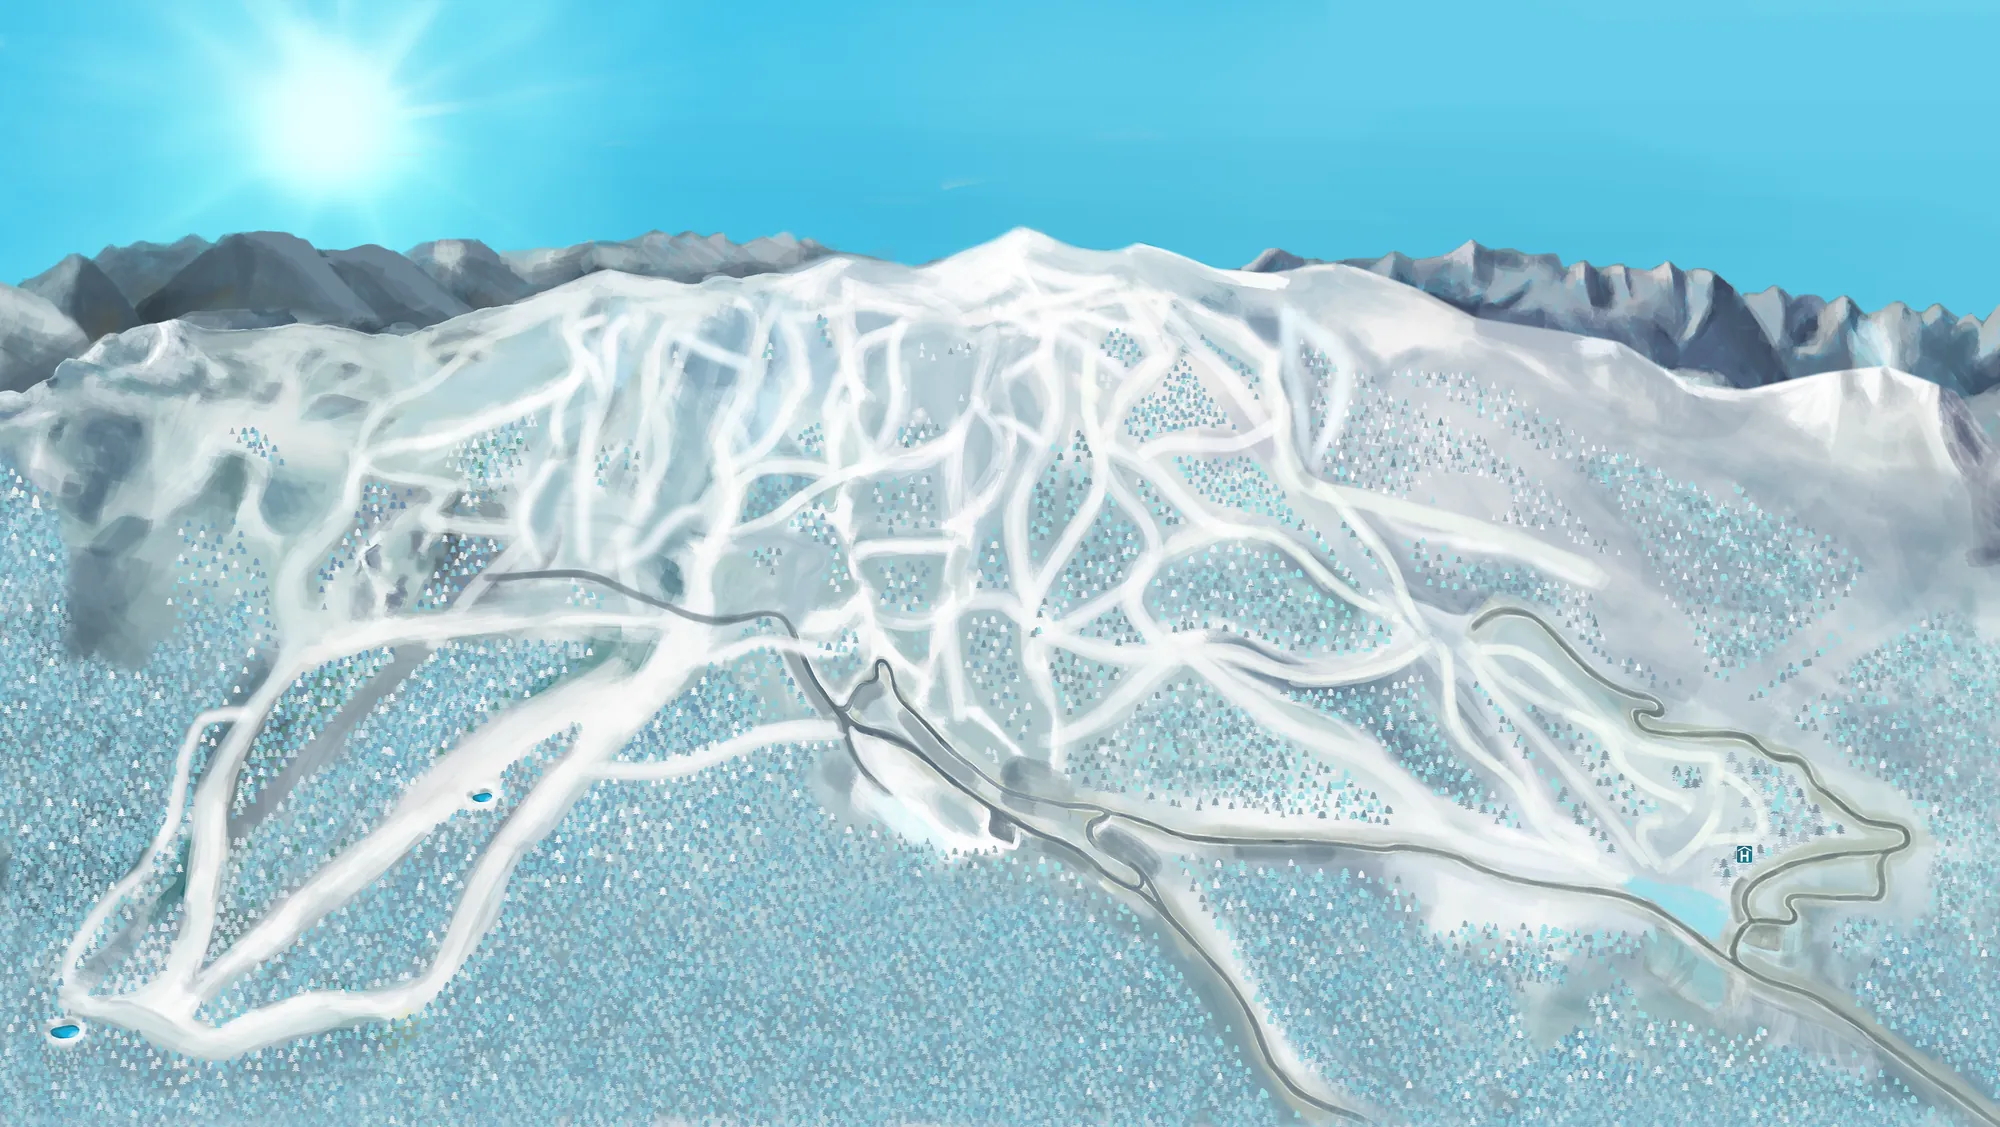
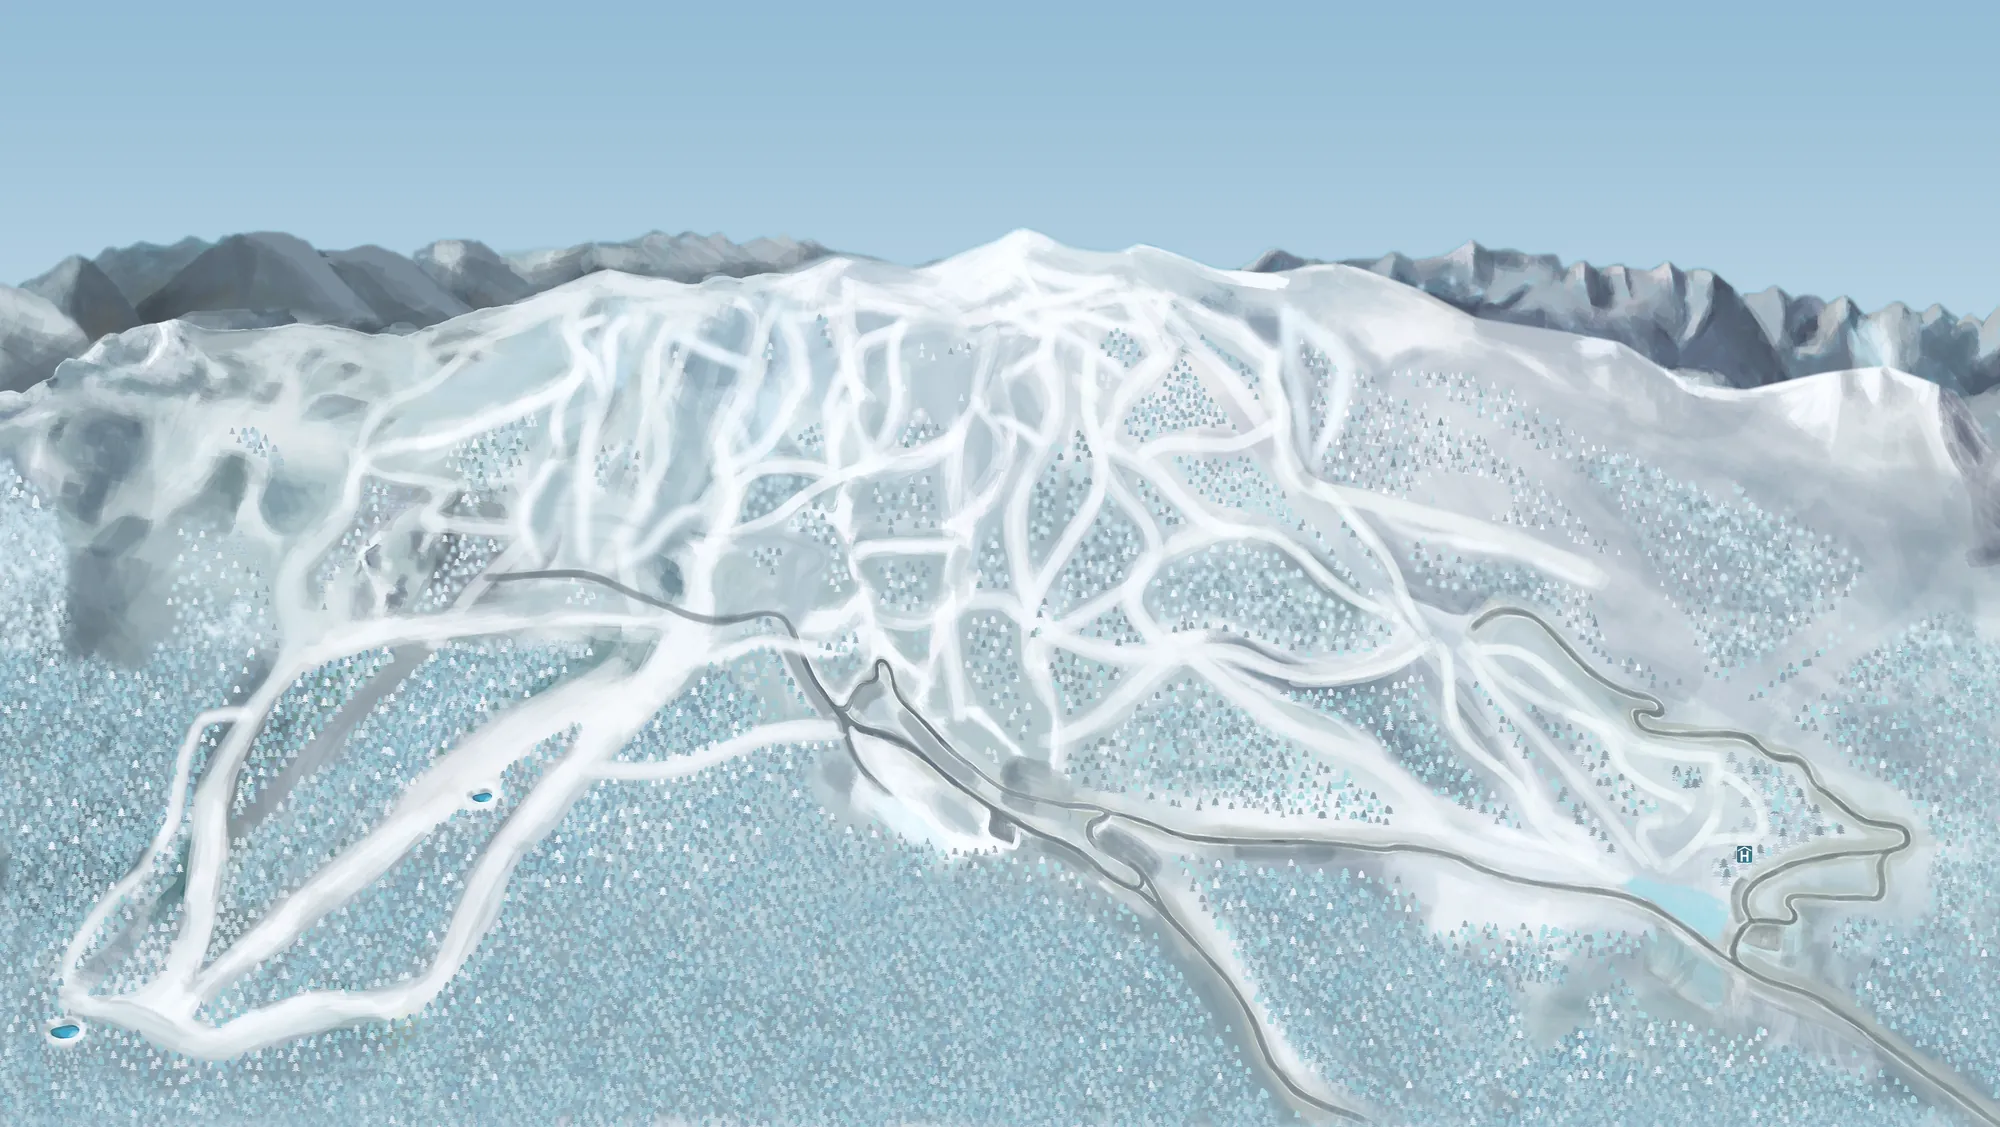
Mapa: plave/crvene/crne staze, prigušena dnevna podloga, oštrija slika bez bljeska
Claude-Session: https://claude.ai/code/session_01CTn5V8kcm2pYuWsP7PZiXx

diff --git a/jahorina-mapa/mapa.js b/jahorina-mapa/mapa.js
@@ -15,15 +15,16 @@
   var T = EN ? {
     kicker: 'Piste map', h1: 'Ski runs of', h2: 'Jahorina',
     lead: '25 runs, link runs and 14 lifts of the Jahorina ski resort on one map. Tap a run or a lift for details, switch on night view to see the floodlit runs.',
-    laka: 'Easy', srednja: 'Intermediate', teska: 'Difficult', zicare: 'Lifts', usluge: 'Services', noc: 'Night skiing',
+    laka: 'Blue', srednja: 'Red', teska: 'Black', zicare: 'Lifts', usluge: 'Services', noc: 'Night skiing',
     run: 'Run', lift: 'Lift', zoomIn: 'Zoom in', zoomOut: 'Zoom out', reset: 'Whole map', full: 'Full screen', fullOff: 'Close full screen',
     close: 'Close', hintWheel: 'Hold Ctrl and scroll to zoom', hintTouch: 'Swipe sideways to move · pinch to zoom',
     help: 'Drag to move · Ctrl + scroll to zoom · Click a run for details', helpTouch: 'Swipe sideways · pinch to zoom · full screen for more room',
-    lit: 'Floodlit for night skiing', fis: 'FIS homologated', upper: 'Upper part difficult, lower part intermediate',
+    lit: 'Floodlit for night skiing', fis: 'FIS homologated', upper: 'Upper part black, lower part red',
     gore: 'Lift to the top', dole: 'At the bottom', od: 'Branches off run', u: 'Joins run', fromTop: 'Runs from the top',
     ride: 'ride', listLifts: 'Lifts', listRuns: 'Runs', listSum: 'Lifts and runs list', nLifts: 'lifts', nRuns: 'runs', mapLabel: 'Interactive piste map of Jahorina. Use the lists below the map to pick a run or a lift.',
     tip: { gondola: 'Gondola', sestosjed: 'Six-seater chairlift', dvosjed: 'Double chairlift', tanjir: 'Platter lift', sidro: 'T-bar lift' },
-    lvl: { laka: 'Easy run', srednja: 'Intermediate run', teska: 'Difficult run' },
+    lvl: { laka: 'Blue run', srednja: 'Red run', teska: 'Black run' },
+    grp: { laka: 'Blue runs', srednja: 'Red runs', teska: 'Black runs' },
     poi: { skikasa: 'Ski pass sales', karte24: 'Ski pass sales 24/7', parking: 'Parking', restoran: 'Restaurant', bar: 'Olimp bar',
       hotel: 'Hotel', smjestaj: 'Resort accommodation', skola: 'Ski school booking', poligon: 'Ski practice area', snowboard: 'Snowboard park',
       sankaliste: 'Sledding area', gondola: 'Poljice gondola', rent: 'Ski rental', wc: 'Toilets', gss: 'Mountain rescue',
@@ -37,15 +38,16 @@
   } : {
     kicker: 'Ski mapa', h1: 'Mapa staza', h2: 'Jahorine',
     lead: '25 staza, vezne staze i 14 žičara ski centra Jahorina na jednoj mapi. Dodirni stazu ili žičaru za detalje, a noćni prikaz pokazuje osvijetljene staze.',
-    laka: 'Lake', srednja: 'Srednje', teska: 'Teške', zicare: 'Žičare', usluge: 'Usluge', noc: 'Noćno skijanje',
+    laka: 'Plave', srednja: 'Crvene', teska: 'Crne', zicare: 'Žičare', usluge: 'Usluge', noc: 'Noćno skijanje',
     run: 'Staza', lift: 'Žičara', zoomIn: 'Uvećaj', zoomOut: 'Umanji', reset: 'Cijela mapa', full: 'Cijeli ekran', fullOff: 'Zatvori cijeli ekran',
     close: 'Zatvori', hintWheel: 'Drži Ctrl i skroluj za zum', hintTouch: 'Prevuci lijevo-desno · dva prsta za zum',
     help: 'Prevuci za pomjeranje · Ctrl + točkić za zum · klik na stazu za detalje', helpTouch: 'Prevuci lijevo-desno · dva prsta za zum · cijeli ekran za više prostora',
-    lit: 'Osvijetljena za noćno skijanje', fis: 'FIS homologovana', upper: 'Gornji dio težak, donji srednje težak',
+    lit: 'Osvijetljena za noćno skijanje', fis: 'FIS homologovana', upper: 'Gornji dio crna, donji dio crvena staza',
     gore: 'Žičara do vrha', dole: 'Na dnu', od: 'Odvaja se od staze', u: 'Spaja se sa stazom', fromTop: 'Staze sa vrha',
     ride: 'vožnje', listLifts: 'Žičare', listRuns: 'Staze', listSum: 'Popis žičara i staza', nLifts: 'žičara', nRuns: 'staza', mapLabel: 'Interaktivna mapa staza Jahorine. Stazu ili žičaru možeš izabrati i iz popisa ispod mape.',
     tip: { gondola: 'Gondola', sestosjed: 'Šestosjed', dvosjed: 'Dvosjed', tanjir: 'Ski lift tanjir', sidro: 'Ski lift sidro' },
-    lvl: { laka: 'Laka staza', srednja: 'Srednje teška staza', teska: 'Teška staza' },
+    lvl: { laka: 'Plava staza', srednja: 'Crvena staza', teska: 'Crna staza' },
+    grp: { laka: 'Plave staze', srednja: 'Crvene staze', teska: 'Crne staze' },
     poi: { skikasa: 'Prodaja ski karata', karte24: 'Prodaja ski karata 0–24', parking: 'Parking', restoran: 'Restoran', bar: 'Olimp bar',
       hotel: 'Hotel', smjestaj: 'Smještaj ski centra', skola: 'Booking ski škole', poligon: 'Ski poligon', snowboard: 'Snowboard poligon',
       sankaliste: 'Sankalište', gondola: 'Gondola Poljice', rent: 'Ski renta', wc: 'Toalet', gss: 'Gorska služba spasavanja Jahorina',
@@ -57,7 +59,7 @@
     here: 'Ovdje', snow: 'Osnježavanje', fisOn: 'FIS',
     peak: 'Ogorjelica', and: ', ', km: 'm'
   };
-  var NAZ_TEZ = { laka: EN ? 'easy' : 'laka', srednja: EN ? 'intermediate' : 'srednja', teska: EN ? 'difficult' : 'teška' };
+  var NAZ_TEZ = { laka: EN ? 'blue' : 'plava', srednja: EN ? 'red' : 'crvena', teska: EN ? 'black' : 'crna' };
 
   /* ---------- fontovi (jednom za sve sekcije) ---------- */
   var hasFonts = [].some.call(document.querySelectorAll('link[rel=stylesheet]'), function (l) {
@@ -395,8 +397,15 @@
     var upgraded = big;
     function upgrade() {
       if (upgraded) return; upgraded = true;
-      var hi = new Image(); hi.onload = function () { imgD.src = hi.src; if (nightLoaded) imgN.src = BASE + 'slike/mapa-noc-3543.webp'; };
-      hi.src = BASE + 'slike/mapa-dan-3543.webp'; big = true;
+      // oštrija slika ulazi tek kad je dekodirana: novi <img> preko starog, pa se stari ukloni (bez tamnog bljeska)
+      function swap(old, url, cb) {
+        var n = old.cloneNode(false); n.src = url;
+        var done = function () { old.parentNode.insertBefore(n, old.nextSibling); old.parentNode.removeChild(old); cb(n); };
+        (n.decode ? n.decode() : new Promise(function (r) { n.onload = r; })).then(done, function () {});
+      }
+      swap(imgD, BASE + 'slike/mapa-dan-3543.webp', function (n) { imgD = n; });
+      if (nightLoaded) swap(imgN, BASE + 'slike/mapa-noc-3543.webp', function (n) { imgN = n; });
+      big = true;
     }
 
     /* --- SVG --- */
@@ -494,7 +503,7 @@
     }).join('');
     $('.jm-pop summary b').textContent = D.zicare.length + ' ' + T.nLifts + ' · ' + D.staze.length + ' ' + T.nRuns;
     $('.jm-runs').innerHTML = ['laka', 'srednja', 'teska'].map(function (k) {
-      return '<div class="jm-rg"><span>' + T.lvl[k] + '</span><div class="jm-rcs">' + runs.filter(function (r) { return r.tez === k; }).map(function (r) {
+      return '<div class="jm-rg"><span>' + T.grp[k] + '</span><div class="jm-rcs">' + runs.filter(function (r) { return r.tez === k; }).map(function (r) {
         return '<button type="button" class="jm-rc t-' + k + '" data-run="' + r.id + '" aria-label="' + esc(T.run + ' ' + r.id) + '">' + esc(r.id) + '</button>';
       }).join('') + '</div></div>';
     }).join('');

diff --git a/jahorina-mapa/alati/napravi-podatke.py b/jahorina-mapa/alati/napravi-podatke.py
@@ -62,6 +62,18 @@ sky = np.asarray(Image.fromarray((plavo * 255).astype(np.uint8)).filter(ImageFil
 noc = nocna(bez_sunca) * (1 - sky) + nebo * sky
 noc = Image.fromarray((np.clip(noc, 0, 1) * 255).astype(np.uint8))
 
+# dnevna podloga: 'prigusena' (korisnik 30. 10.: bez sunca, mirno svijetlo nebo, teren manje zasićen i hladniji,
+# da se staze i žičare jasnije ističu) ili 'original' (kao u PSD-u)
+PODLOGA = 'prigusena'
+if PODLOGA == 'prigusena':
+    a_ = np.asarray(bez_sunca).astype(np.float32) / 255
+    lum = (a_ @ np.array([.299, .587, .114], np.float32))[..., None]
+    a_ = lum + (a_ - lum) * .72                                       # manje zasićeno
+    a_ = 1 - (1 - np.clip(a_ * np.array([.985, 1.0, 1.02], np.float32), 0, 1)) * .93   # hladnije, mekše sjene
+    t_ = np.clip(ys / .55, 0, 1) ** 1.2
+    nebo_d = np.array([150, 190, 214], np.float32) / 255 * (1 - t_) + np.array([228, 238, 244], np.float32) / 255 * t_
+    dan = Image.fromarray((np.clip(a_ * (1 - sky) + nebo_d * sky, 0, 1) * 255).astype(np.uint8))
+
 (ROOT / 'slike').mkdir(exist_ok=True)
 for ime, im in (('dan', dan), ('noc', noc)):
     for w in (3543, 2000):

diff --git a/STANJE-PROJEKTA.md b/STANJE-PROJEKTA.md
@@ -107,10 +107,11 @@ Pročitaj ovo prije rada. Komunikacija sa korisnikom: srpski, latinica, ijekavic
 
 ## Interaktivna mapa staza — pregled (16. 10. 2026, grana `claude/practical-mayer-p8cgap`)
 - Korisnik: mapa skijališta iz PSD-a na sajt, „ne kao slika, profesionalna i interaktivna“. PSD (85 MB) je na GitHub Release-u `mapa-psd` (preko pretraživača GitHub prima samo 25 MB po fajlu u repo).
-- Kod i detalji: `jahorina-mapa/README.md`. Podloga je naslikani pejzaž iz PSD-a (dan + noćna obrada), a staze, žičare, oznake i usluge su vektor (SVG/HTML) iz sloja `Layer 30`: 25 staza (7 lakih, 16 srednjih, 2 teške), vezne staze, 14 žičara sa podacima iz legende (dužina, vrijeme vožnje), ~60 usluga.
+- Kod i detalji: `jahorina-mapa/README.md`. Podloga je naslikani pejzaž iz PSD-a (dan + noćna obrada), a staze, žičare, oznake i usluge su vektor (SVG/HTML) iz sloja `Layer 30`: 25 staza (7 plavih, 16 crvenih, 2 crne; korisnik 30. 10.: nazivi su plave/crvene/crne, ne lake/srednje/teške), vezne staze, 14 žičara sa podacima iz legende (dužina, vrijeme vožnje), ~60 usluga.
 - Funkcije: zum/pomjeranje (računar: prevlačenje, Ctrl + točkić; telefon: prevlačenje lijevo-desno, dva prsta za zum; cijeli ekran), klik na stazu/žičaru → kartica (težina, osvijetljena, FIS, žičara do vrha, žičare na dnu, odvajanje/spajanje), filteri po težini/žičare/usluge, noćni prikaz (osvijetljene staze), popis žičara i staza ispod mape (SEO tekst), SR/EN.
 - **Usklađeno sa zvaničnom slikom mape** (korisnik poslao 16. 10., novija od PSD-a): staze/žičare/osvijetljene staze iste; prenesene razlike u ikonicama (detalji u README), žičare 7/11/13/14 = ski lift sidro, dodati topovi za osnježavanje, staza za ski sanke, FIS oznake, okviri usluga (Gondola Poljice, Olimp bar, Ski poligon) u karticama.
 - **Preglednost (30. 10., korisnik izabrao 1, 2, 3):** u cijeloj mapi samo staze i žičare (tanje linije, manji brojevi); vezne staze, pješačke, ski sanke i usluge (ski kase/gondola/bar) od zuma ≥ 0,5, sve usluge, topovi, FIS i natpisi od ≥ 0,75; kontrole u jednoj pilulu (računar gore desno, telefon dole desno, skrivene dok je kartica otvorena); uži kadar bez neba iznad y = 230 (računar: najmanji zum = cijela širina, okvir niži i širi; telefon: početak na jezgru skijališta, okvir min(72vh, 520px)). Filteri manji, popis žičara i staza na klik, kartica manja (29. 10.). Sljedeće po izboru korisnika: animacije (svjetlosna linija niz stazu, kabina po žičari, mekano učitavanje), status uživo, dužine staza, noćni prikaz po satu.
+- **30. 10.:** nazivi težine kao na mapi: plave / crvene / crne staze (EN blue / red / black); dnevna podloga prigušena (bez sunca, svijetlo plavo-sivo nebo, teren 72 % zasićenosti, hladniji ton) — `PODLOGA = 'original'` vraća PSD izgled.
 - Pregled (artifact): https://claude.ai/artifact/X8xC3r94DjZxFT5KZGsX99
 - Otvoreno: dužine/nazivi staza, gdje ide na sajtu (posebna stranica ili početna), pa red za Elementor.
 

diff --git a/jahorina-mapa/README.md b/jahorina-mapa/README.md
@@ -6,7 +6,7 @@ filteri, noćni prikaz, SR/EN). Prefiks klasa `jm-`, mjesto ugradnje `<div id="j
 ## Fajlovi
 - `mapa.js` — cijela komponenta (ubacuje CSS i HTML, čita `podaci/mapa.json` i `slike/` pored sebe ili iz `data-base`).
 - `podaci/mapa.json` — vektorski podaci (25 staza, vezne staze, 14 žičara, usluge, granica, pješačke i osvijetljene staze).
-- `slike/mapa-{dan,noc}-{2000,3543}.webp` — naslikana podloga iz PSD-a (dan) i noćna obrada (bez sunca, tamno nebo, tihe zvijezde).
+- `slike/mapa-{dan,noc}-{2000,3543}.webp` — naslikana podloga iz PSD-a: dan = prigušena verzija (bez sunca, mirno svijetlo nebo, teren manje zasićen; `PODLOGA` u `napravi-podatke.py`, 'original' vraća izgled iz PSD-a), noć = noćna obrada (tamno nebo, tihe zvijezde).
 - `alati/ulaz.py` — ručni ulaz: kontrolne tačke staza, oznake, žičare iz legende PSD-a, usluge.
 - `alati/napravi-podatke.py` — PSD → slike + `mapa.json`.
 - `pregled/index.html` — pregled (artifact), `test-mapa.js` — Playwright test (računar + telefon).
